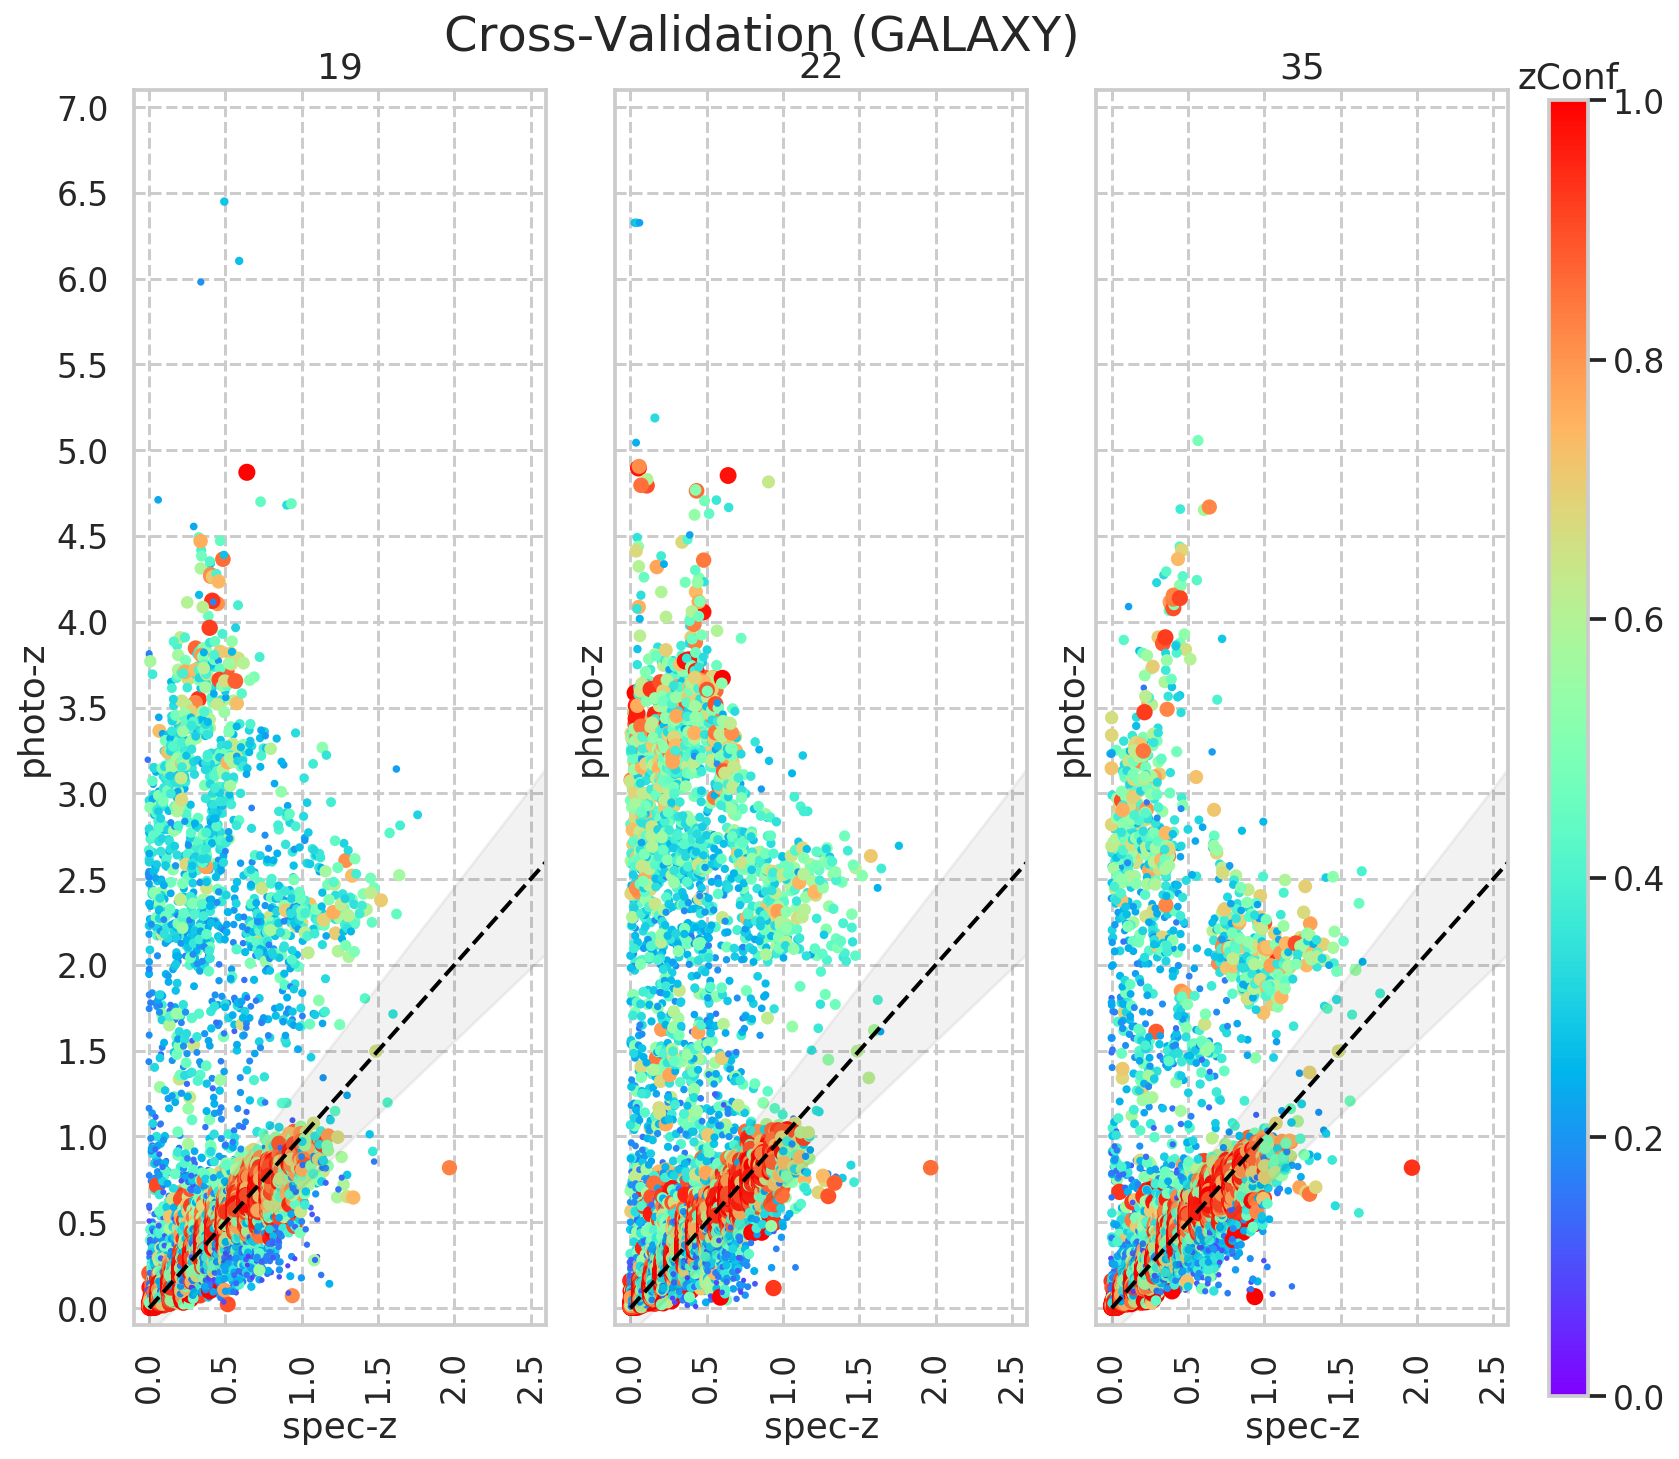
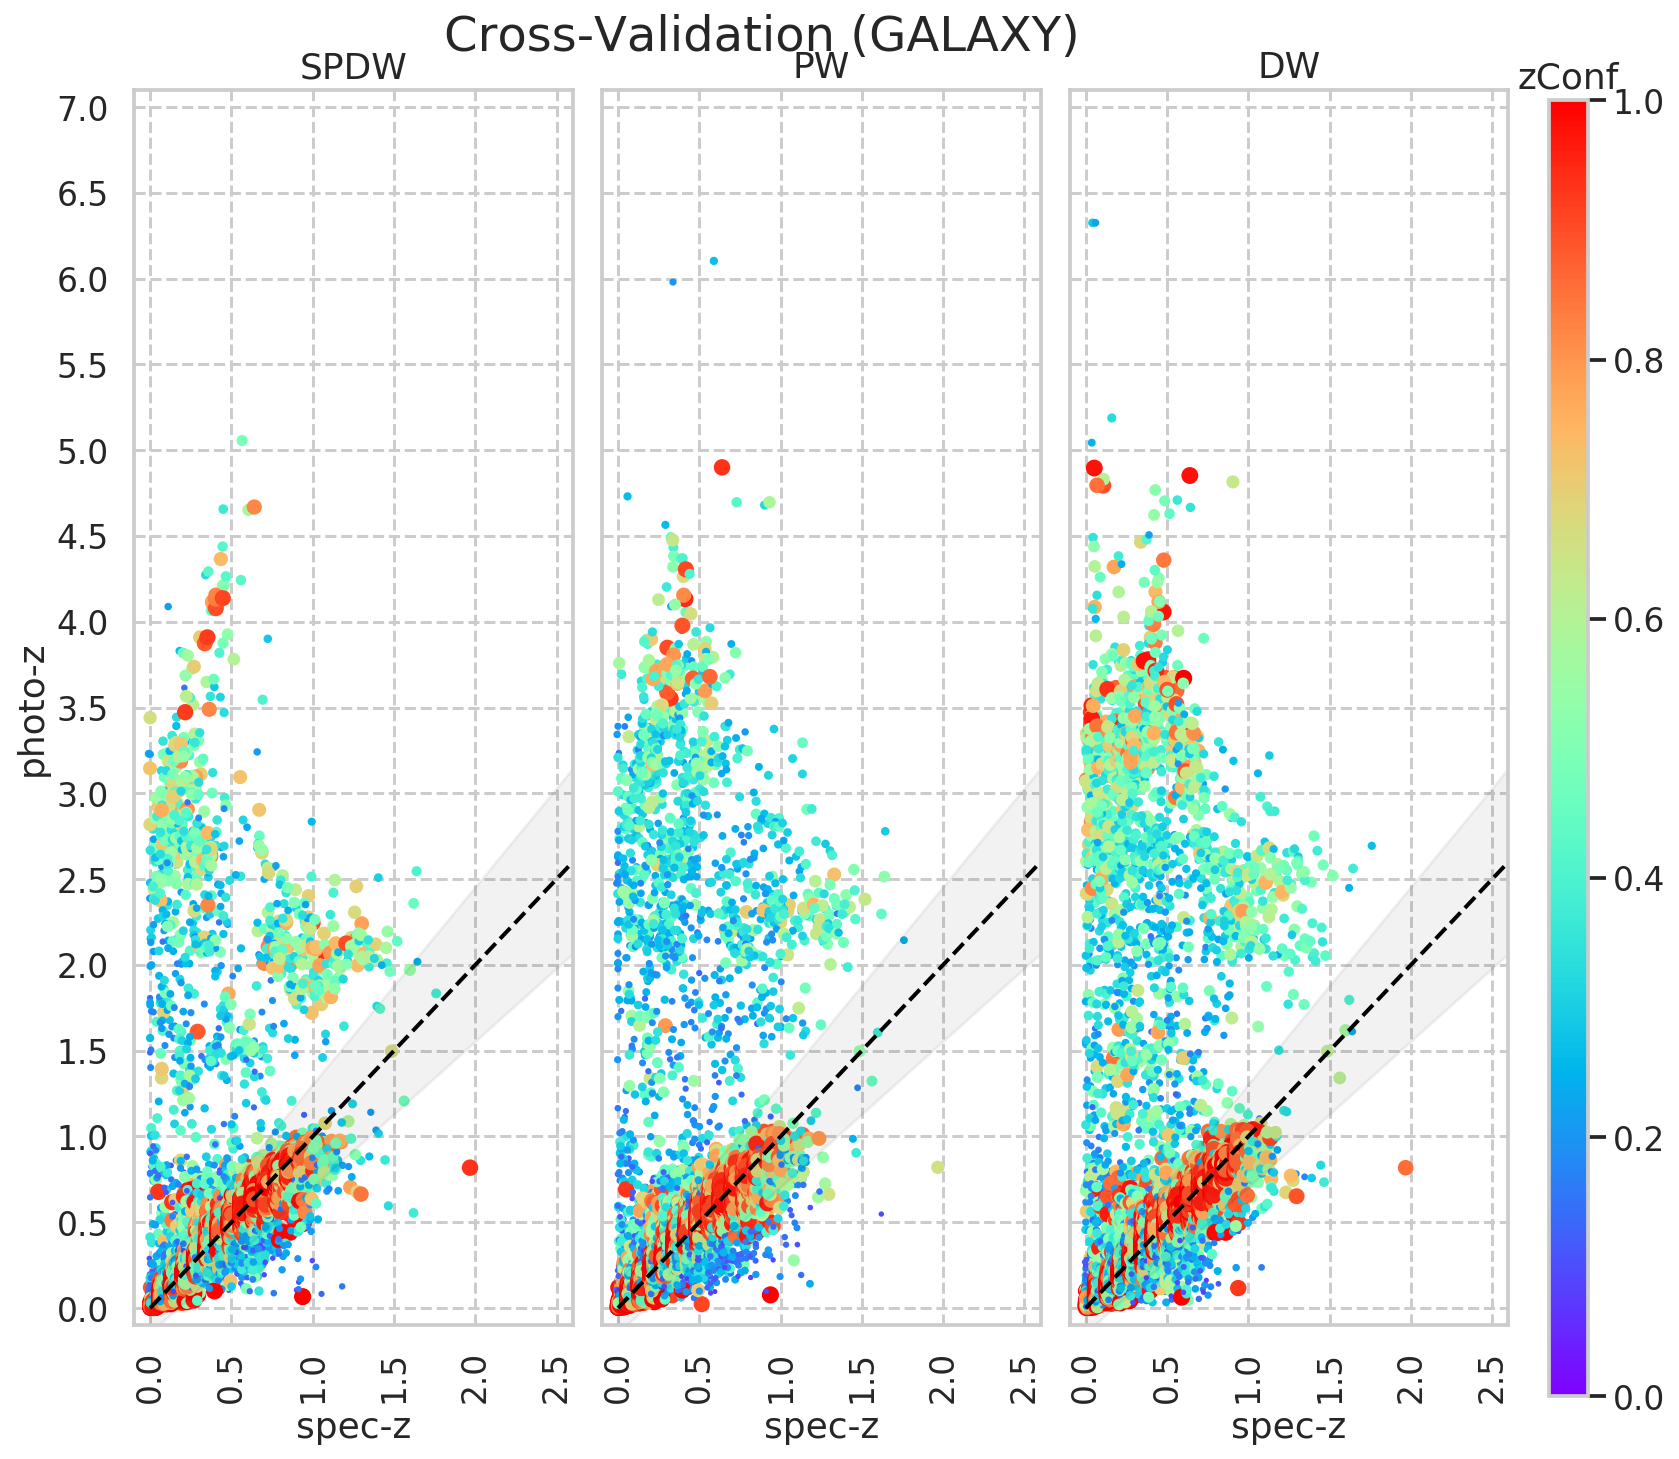
Updates from Overleaf

diff --git a/main.tex b/main.tex
@@ -81,6 +81,8 @@
 % Reset the rowcntr counter at each new tabular
 \AtBeginEnvironment{tabular}{\setcounter{rowcntr}{0}}
 
+\newcommand{\expnumber}[2]{{#1}\mathrm{e}{#2}}
+
 \maketitle
 \begin{abstract}
 Проведено исследование, построение и сравнение моделей вероятностных прогнозов фотометрических красных смещений (photo-z) на основе алгоритма случайного леса  с использованием данных современных астрономических обзоров SDSS, PanStarrs и DESI Legacy Survey для построения трехмерной карты квазаров.
@@ -176,15 +178,18 @@ We use photometric data from SDSS DR14 \citep{2018ApJS..235...42A}, Pan-STARRS1 
 \subsection{Features Set}
 Для построения моделей Photo-z мы строим экспертный набор признаков. Для этого сначала из потоков вычисляются величины с использованием гиперболического синуса:
 \begin{equation}\label{eq:asinhmag}
-    mag = \Bigg[asinh\Bigg(\frac{flux}{2 \times \sigma_{flux}}\Bigg) + \log(\sigma_{flux})\Bigg] \times \Bigg(\frac{-2.5}{\log 10}\Bigg) ~,
+    mag = \Bigg[asinh\Bigg(\frac{f/f_0}{2 \times b/f_0}\Bigg) + \log(b/f_0)\Bigg] \times \Bigg(\frac{-2.5}{\log 10}\Bigg) ~,
 \end{equation}
-где $flux$ и $\sigma_{flux}$ - значение и ошибка потока.
+где $f~[nanomaggies]$ и $b = \sigma_{flux}~[nanomaggies]$ - значение и ошибка потока, a (\url{https://www.legacysurvey.org/dr9/description/#photometry})
+\begin{equation}
+    f_0 = 1~[nanomaggie] = 10^{-(48.6+22.5)/2.5}~[erg/cm^2/Hz].
+\end{equation}
 
 Описать свойства гиперболического синуса.
 
 Вычисление величин по такой формуле позволяет использовать информацию об объектах с с отрицательными потоками. Кроме того вычисленные по такой формуле величины содержат в себе информацию об ошибках. Однако все графики мы будем приводить в более стандартных AB-величинах, которые вычисляются по следующей формуле: формулу взял отсюда: \url{https://www.sdss.org/dr12/algorithms/magnitudes/} (звезда яркосьтю 1 nanomaggie имеет величину 22.5 \url{https://www.sdss.org/dr12/help/glossary/#mag_pogson})
 \begin{equation}\label{eq:mag_ab}
-    m_{AB} = [22.5 mag] - 2.5 \log_{10} f [nanomaggies]
+    m_{AB} = [22.5 mag] - 2.5 \log_{10} \frac{f}{f_0}
 \end{equation}
 
 Ниже в таблицах \ref{tab:featuressets} и \ref{tab:models} описываются используемые наборы признаков и какие модели какие наборы признаков используют (криво!). 
@@ -236,11 +241,11 @@ We use photometric data from SDSS DR14 \citep{2018ApJS..235...42A}, Pan-STARRS1 
         {}                      & \multicolumn{4}{c}{Data} & {}\\
         No. & SDSS & PS & LS & WISE & Feature sets used \\
     \hline
-        \refstepcounter{ModelNumber}\theModelNumber\label{model:pw} & & + & & Rodion & \ref{feats:ps-mags-1}, \ref{feats:ps-mags-2}, \ref{feats:ps-colors-1}, \ref{feats:ps-colors-2}, \ref{feats:wise-mags-1}, \ref{feats:wise-colors-1}, \ref{feats:ps-wise-colors-1} \\ %Pan-STARRS mags (1 and 2) and colors (1 and 2), WISE mags and colors, Pan-STARRS + WISE colors \\
-        \refstepcounter{ModelNumber}\theModelNumber\label{model:pdw} & & + & + & DESI LIS & \ref{feats:ps-mags-1}, \ref{feats:ps-colors-1}, \ref{feats:ls-mags-1}, \ref{feats:ls-colors-1}, \ref{feats:wise-mags-1}, \ref{feats:wise-colors-1}, \ref{feats:ps-ls-colors-1}, \ref{feats:ps-wise-colors-1} \\ % Pan-STARRS mags (1) and colors (1), DESI LIS mags and colors, WISE mags and colors, Pan-STARRS + DESI LIS colors, Pan-STARRS + WISE colors \\
-        \refstepcounter{ModelNumber}\theModelNumber\label{model:dw} & & & + & DESI LIS & \ref{feats:ls-mags-1}, \ref{feats:ls-colors-1}, \ref{feats:wise-mags-1}, \ref{feats:wise-colors-1}, \ref{feats:ls-wise-colors-1} \\ % DESI LIS mags and colors, WISE mags and colors, DESI LIS + WISE colors \\
-        \refstepcounter{ModelNumber}\theModelNumber\label{model:spw} & + & + & & Rodion & \ref{feats:sdss-mags-1}, \ref{feats:sdss-mags-2}, \ref{feats:ps-colors-1}, \ref{feats:ps-colors-2}, \ref{feats:wise-mags-1}, \ref{feats:wise-colors-1}, \ref{feats:sdss-wise-colors-1}, \ref{feats:ps-wise-colors-1} \\
-        \refstepcounter{ModelNumber}\theModelNumber\label{model:spdw} & + & + & + & DESI LIS & \ref{feats:sdss-mags-1}, \ref{feats:sdss-colors-1}, \ref{feats:ps-mags-1}, \ref{feats:ps-colors-1}, \ref{feats:ls-mags-1}, \ref{feats:ls-colors-1}, \ref{feats:wise-mags-1}, \ref{feats:wise-colors-1}, \ref{feats:sdss-wise-colors-1}, \ref{feats:sdss-ls-colors-1}, \ref{feats:ps-wise-colors-1} \\ % SDSS mags and colors, Pan-STARRS mags (1) and colors (1), DESI LIS mags and colors, WISE mags and colors, SDSS + WISE colors, SDSS + DESI LIS colors, Pan-STARRS + WISE colors \\
+        \refstepcounter{ModelNumber}\theModelNumber\label{model:pw} & & + & & RB & \ref{feats:ps-mags-1}, \ref{feats:ps-mags-2}, \ref{feats:ps-colors-1}, \ref{feats:ps-colors-2}, \ref{feats:wise-mags-1}, \ref{feats:wise-colors-1}, \ref{feats:ps-wise-colors-1} \\ %Pan-STARRS mags (1 and 2) and colors (1 and 2), WISE mags and colors, Pan-STARRS + WISE colors \\
+        \refstepcounter{ModelNumber}\theModelNumber\label{model:pdw} & & + & + & LS & \ref{feats:ps-mags-1}, \ref{feats:ps-colors-1}, \ref{feats:ls-mags-1}, \ref{feats:ls-colors-1}, \ref{feats:wise-mags-1}, \ref{feats:wise-colors-1}, \ref{feats:ps-ls-colors-1}, \ref{feats:ps-wise-colors-1} \\ % Pan-STARRS mags (1) and colors (1), DESI LIS mags and colors, WISE mags and colors, Pan-STARRS + DESI LIS colors, Pan-STARRS + WISE colors \\
+        \refstepcounter{ModelNumber}\theModelNumber\label{model:dw} & & & + & LS & \ref{feats:ls-mags-1}, \ref{feats:ls-colors-1}, \ref{feats:wise-mags-1}, \ref{feats:wise-colors-1}, \ref{feats:ls-wise-colors-1} \\ % DESI LIS mags and colors, WISE mags and colors, DESI LIS + WISE colors \\
+        \refstepcounter{ModelNumber}\theModelNumber\label{model:spw} & + & + & & RB & \ref{feats:sdss-mags-1}, \ref{feats:sdss-mags-2}, \ref{feats:ps-colors-1}, \ref{feats:ps-colors-2}, \ref{feats:wise-mags-1}, \ref{feats:wise-colors-1}, \ref{feats:sdss-wise-colors-1}, \ref{feats:ps-wise-colors-1} \\
+        \refstepcounter{ModelNumber}\theModelNumber\label{model:spdw} & + & + & + & LS & \ref{feats:sdss-mags-1}, \ref{feats:sdss-colors-1}, \ref{feats:ps-mags-1}, \ref{feats:ps-colors-1}, \ref{feats:ls-mags-1}, \ref{feats:ls-colors-1}, \ref{feats:wise-mags-1}, \ref{feats:wise-colors-1}, \ref{feats:sdss-wise-colors-1}, \ref{feats:sdss-ls-colors-1}, \ref{feats:ps-wise-colors-1} \\ % SDSS mags and colors, Pan-STARRS mags (1) and colors (1), DESI LIS mags and colors, WISE mags and colors, SDSS + WISE colors, SDSS + DESI LIS colors, Pan-STARRS + WISE colors \\
     \hline
     \end{tabular}
 \end{table*}
@@ -270,14 +275,17 @@ We use photometric data from SDSS DR14 \citep{2018ApJS..235...42A}, Pan-STARRS1 
 Для тестирования моделей photo-z будут использоваться выборки тестовых полей Stripe82X и XMM-XXL-N. Выборка рентгеновских объектов области Stripe82X подробно описана в \cite{bib:ananna2017}. На данный момент эта выборка является самой крупной выборкой рентгеновских объектов, имеющих качественную классификацию по спектрам, и размеченных вручную, что делает её основной тестовой выборкой для сравнения моделей photo-z рентгеновских объектов. Данная выборка использовалась в качестве теста авторами двух вышеупомянутых моделей (SOTA) \cite{bib:ananna2017}, \cite{bib:brescia2018}. 
 \subsection{Test sample of DR16q objects}
 \begin{table*}
-	\begin{tabular}{llllllll}
+	\begin{tabular}{rlllllll}
             \hline
-            {}           & \multicolumn{3}{l}{No. sources}      & \multicolumn{4}{l}{With photometry from}  \\
-             Sample      &       Total &     Galaxies &     QSO & DESI LIS & Pan-STARRS &    SDSS & All 3 surveys \\
+            {} & \multicolumn{3}{l}{No. sources} & \multicolumn{4}{l}{With photometry from} \\
+            Sample &       Total &  Galaxy &     QSO &             DESI LIS & Pan-STARRS &    SDSS & All 3 surveys \\
             \hline
-            Train        &      586176 &       136428 &  449748 &   580511 &     578815 &  578650 &  577049 \\
-            Stripe82X    &        2909 &          648 &    1771 &     2898 &       2434 &    2862 &    2407 \\
-            DR16q test   &       58682 &            0 &   58682 &    58447 &      50055 &   58366 &   49992 \\
+            Train                                                          &      586176 &  136428 &  449748 &               580511 &     578815 &  578650 &        577049 \\
+            Stripe82X                                                      &        2909 &     648 &    1771 &                 2898 &       2434 &    2862 &          2407 \\
+            Stripe82X ($\expnumber{3}{-15} <= FSoft < \expnumber{1}{-14}$) &        1160 &     297 &     656 &                 1155 &        942 &    1137 &           929 \\
+            Stripe82X ($\expnumber{1}{-14} <= FSoft < \expnumber{4}{-14}$) &        1263 &     194 &     859 &                 1260 &       1082 &    1248 &          1073 \\
+            Stripe82X ($FSoft > \expnumber{4}{-14}$)                       &         242 &      17 &     186 &                  240 &        211 &     238 &           209 \\
+            DR16q w/o train                                                &       38091 &       0 &   38091 &                37949 &      32520 &   37877 &         32466 \\
             \hline
             \end{tabular}
             \caption{Описание используемых выборок (количество объектов по классам (галактики, квазары) и доли объектов, имеющих фотометрию в используемых широких обзорах неба). Поскольку кросс-отождествление сначала производится с каталогом DESI LIS, а потом для компаньонов DESI LIS ищутся данные Pan-STARRS и SDSS, доли объектов с фотометрией Pan-STARRS и SDSS не больше, чем с DESI LIS.}
@@ -292,7 +300,7 @@ We use photometric data from SDSS DR14 \citep{2018ApJS..235...42A}, Pan-STARRS1 
 
 \begin{figure*}
     \centering
-    \includegraphics[width=0.95\linewidth]{images/data-dist-ab.png}
+    \includegraphics[width=0.95\linewidth]{images/data-dist-ab-upsidedown.png}
     \caption{Распределения объектов в используемых выборках. По оси абсцисс -- спектральное красное смещение, по оси ординат -- величина \eqref{eq:mag_ab} в фильтре $z$. Слева сверху -- объекты Stripe82X, оранжевыми крестиками показаны галактики, синими плюсиками -- квазары. Справа сверху -- двумерная гистограмма распределения объектов тестовой выборки квазаров SDSS DR16q. Снизу -- двумерные гисторгаммы распределения галактик (слева) и квазаров (справа) тренировочной выборки.}
     \label{fig:data_distribution}
 \end{figure*}
@@ -564,7 +572,7 @@ PIT_i = \hat{F}_i(y_{true}); \hat{F}_i(y) = \int_{-\infty}^{y} \hat{p}_i(y|x) ~ 
 
 \begin{figure*}
     \centering
-    \includegraphics[width=0.9\linewidth]{images/metrics-cv2-ab.png}
+    \includegraphics[width=0.9\linewidth]{images/metrics-cv2-ab-mini.png}
     \caption{Метрики кросс-валидации}
     \label{fig:metrics-cv2-ab}
 \end{figure*}
@@ -582,7 +590,7 @@ PIT_i = \hat{F}_i(y_{true}); \hat{F}_i(y) = \int_{-\infty}^{y} \hat{p}_i(y|x) ~ 
 
 \begin{figure*}
     \centering
-    \includegraphics[width=0.9\linewidth]{images/metrics-dr16q-ab.png}
+    \includegraphics[width=0.9\linewidth]{images/metrics-dr16q-ab-mini.png}
     \caption{Метрики квазаров dr16q}
     \label{fig:metrics-cv2-gal}
 \end{figure*}
@@ -710,23 +718,10 @@ PIT_i = \hat{F}_i(y_{true}); \hat{F}_i(y) = \int_{-\infty}^{y} \hat{p}_i(y|x) ~ 
     \label{fig:s82x}
 \end{figure*}
 
-\begin{figure*}
-    \centering
-    \includegraphics[width=0.9\linewidth]{images/scatterplots-stripe82x-sota19.png}
-    \caption{Диаграммы рассеяния прогнозов для модели \ref{model:pw} + SOTA.}
-    \label{fig:s82x-sota19}
-\end{figure*}
 
 \begin{figure*}
     \centering
-    \includegraphics[width=0.9\linewidth]{images/scatterplots-stripe82x-sota22.png}
-    \caption{Диаграммы рассеяния прогнозов для модели \ref{model:dw} + SOTA.}
-    \label{fig:s82x-sota22}
-\end{figure*}
-
-\begin{figure*}
-    \centering
-    \includegraphics[width=0.9\linewidth]{images/scatterplots-stripe82x-sota35.png}
+    \includegraphics[width=0.9\linewidth]{images/scatterplots-stripe82x-sota-combined.png}
     \caption{Диаграммы рассеяния прогнозов для модели \ref{model:spdw} + SOTA.}
     \label{fig:s82x-sota35}
 \end{figure*}
